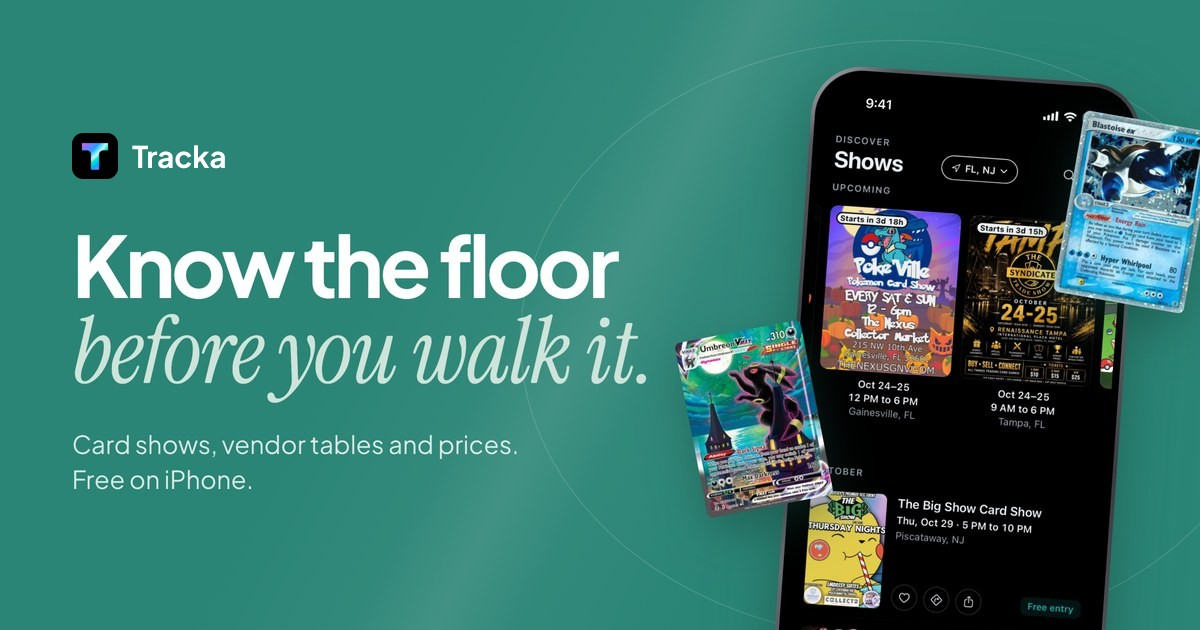
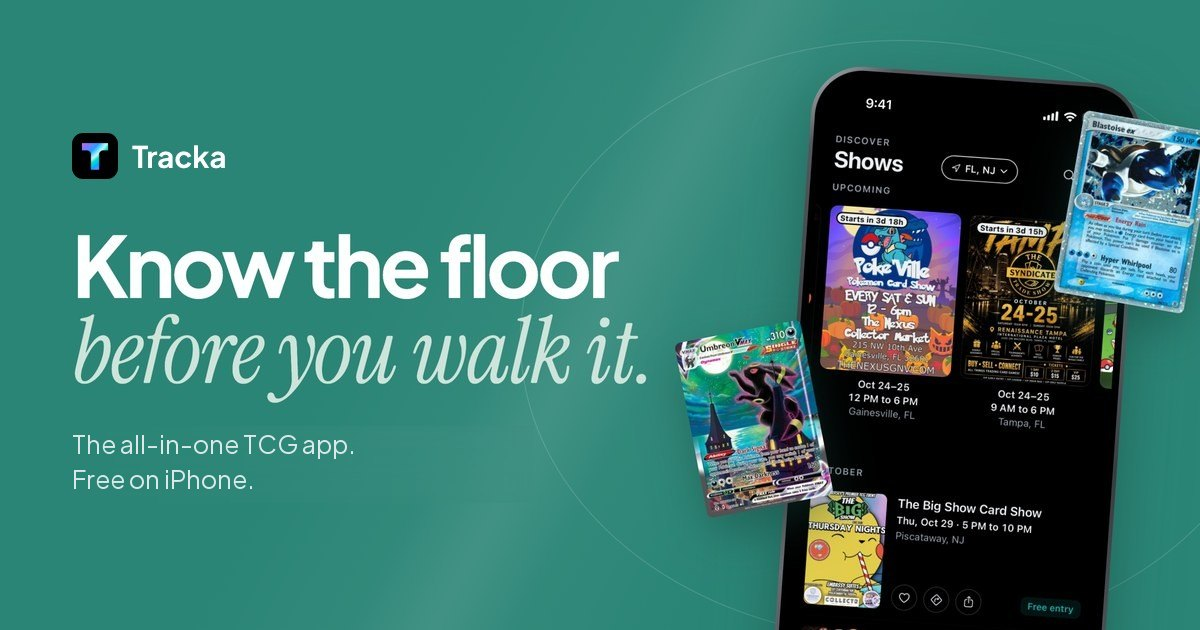
Slogan everywhere: The all-in-one TCG app (titles, share image, every /go page)

Changed region(s): [[0.0617, 0.6937, 0.4317, 0.7238], [0.0617, 0.754, 0.2158, 0.7841]]

diff --git a/index.html b/index.html
@@ -4,7 +4,7 @@
 <meta charset="utf-8">
 <meta name="viewport" content="width=device-width, initial-scale=1, viewport-fit=cover">
 <script src="/track.js?v=3"></script>
-<title>Tracka: Know the floor before you walk it</title>
+<title>Tracka: The all-in-one TCG app</title>
 <meta name="description" content="See what vendors are bringing to Pokémon card shows near you, with prices, before the doors open. Track your collection, scan cards and follow prices. Free on iPhone.">
 <meta name="theme-color" content="#2a8576">
 <meta name="color-scheme" content="light">
@@ -13,19 +13,19 @@
 <link rel="icon" type="image/svg+xml" href="/favicon.svg?v=6">
 <link rel="icon" type="image/png" href="/favicon.png?v=6">
 <link rel="apple-touch-icon" href="/apple-touch-icon.png?v=6">
-<meta property="og:title" content="Tracka: Know the floor before you walk it">
+<meta property="og:title" content="Tracka: The all-in-one TCG app">
 <meta property="og:description" content="See what vendors are bringing to card shows near you, with prices, before the doors open. Free on iPhone.">
 <meta property="og:url" content="https://gettracka.com/">
 <meta property="og:type" content="website">
 <meta property="og:site_name" content="Tracka">
-<meta property="og:image" content="https://gettracka.com/og.jpg?v=9">
+<meta property="og:image" content="https://gettracka.com/og.jpg?v=10">
 <meta property="og:image:width" content="1200">
 <meta property="og:image:height" content="630">
 <meta property="og:image:alt" content="The Tracka Shows tab, listing upcoming card shows with their flyers and vendor tables.">
 <meta name="twitter:card" content="summary_large_image">
-<meta name="twitter:title" content="Tracka: Know the floor before you walk it">
+<meta name="twitter:title" content="Tracka: The all-in-one TCG app">
 <meta name="twitter:description" content="See what vendors are bringing to card shows near you, with prices, before the doors open. Free on iPhone.">
-<meta name="twitter:image" content="https://gettracka.com/og.jpg?v=9">
+<meta name="twitter:image" content="https://gettracka.com/og.jpg?v=10">
 <link rel="preload" as="font" type="font/woff2" crossorigin href="/fonts/plus-jakarta-sans-latin.woff2">
 <link rel="preload" as="font" type="font/woff2" crossorigin href="/fonts/instrument-serif-italic-latin.woff2">
 <link rel="preload" as="image" href="/shots/home-720.webp?v=1" imagesrcset="/shots/home-360.webp?v=1 360w, /shots/home-540.webp?v=1 540w, /shots/home-720.webp?v=1 720w" imagesizes="(max-width:560px) 176px, 264px" fetchpriority="high">

diff --git a/go/livetest/index.html b/go/livetest/index.html
@@ -66,7 +66,7 @@ p span{color:var(--blue)}
 <main class="wrap">
 <img class="icon" src="/go/icon.png?v=3" width="96" height="96" alt="">
 <h1>Tracka</h1>
-<p>Scan a card and <span>see what it’s worth.</span></p>
+<p>The all-in-one <span>TCG app.</span></p>
 <div class="code" id="code" hidden><small>Creator code</small><b>LIVETEST</b><span>Enter it in the app so they get credit.</span></div>
 <a class="badge" href="https://apps.apple.com/app/apple-store/id6778956833?pt=129011221&ct=c-LIVETEST&mt=8" aria-label="Download on the App Store">
 <svg viewBox="0 0 24 24" fill="currentColor" aria-hidden="true"><path d="M16.37 12.64c-.02-2.1 1.72-3.11 1.8-3.16-.98-1.43-2.5-1.63-3.04-1.65-1.3-.13-2.53.76-3.19.76-.66 0-1.67-.74-2.75-.72-1.41.02-2.72.82-3.44 2.09-1.47 2.55-.38 6.32 1.05 8.39.7 1.01 1.53 2.15 2.62 2.11 1.05-.04 1.45-.68 2.72-.68s1.63.68 2.74.66c1.13-.02 1.85-1.03 2.54-2.05.8-1.17 1.13-2.3 1.15-2.36-.03-.01-2.2-.85-2.2-3.39zM14.28 6.46c.58-.7.97-1.68.86-2.66-.83.03-1.85.56-2.45 1.26-.54.62-1.01 1.62-.88 2.57.93.07 1.88-.47 2.47-1.17z"/></svg>

diff --git a/go/sampark/index.html b/go/sampark/index.html
@@ -66,7 +66,7 @@ p span{color:var(--blue)}
 <main class="wrap">
 <img class="icon" src="/go/icon.png?v=3" width="96" height="96" alt="">
 <h1>Tracka</h1>
-<p>Scan a card and <span>see what it’s worth.</span></p>
+<p>The all-in-one <span>TCG app.</span></p>
 <div class="code" id="code" hidden><small>Creator code</small><b>SAMPARK</b><span>Enter it in the app so they get credit.</span></div>
 <a class="badge" href="https://apps.apple.com/app/apple-store/id6778956833?pt=129011221&ct=c-SAMPARK&mt=8" aria-label="Download on the App Store">
 <svg viewBox="0 0 24 24" fill="currentColor" aria-hidden="true"><path d="M16.37 12.64c-.02-2.1 1.72-3.11 1.8-3.16-.98-1.43-2.5-1.63-3.04-1.65-1.3-.13-2.53.76-3.19.76-.66 0-1.67-.74-2.75-.72-1.41.02-2.72.82-3.44 2.09-1.47 2.55-.38 6.32 1.05 8.39.7 1.01 1.53 2.15 2.62 2.11 1.05-.04 1.45-.68 2.72-.68s1.63.68 2.74.66c1.13-.02 1.85-1.03 2.54-2.05.8-1.17 1.13-2.3 1.15-2.36-.03-.01-2.2-.85-2.2-3.39zM14.28 6.46c.58-.7.97-1.68.86-2.66-.83.03-1.85.56-2.45 1.26-.54.62-1.01 1.62-.88 2.57.93.07 1.88-.47 2.47-1.17z"/></svg>

diff --git a/go/logan/index.html b/go/logan/index.html
@@ -66,7 +66,7 @@ p span{color:var(--blue)}
 <main class="wrap">
 <img class="icon" src="/go/icon.png?v=3" width="96" height="96" alt="">
 <h1>Tracka</h1>
-<p>Scan a card and <span>see what it’s worth.</span></p>
+<p>The all-in-one <span>TCG app.</span></p>
 <div class="code" id="code" hidden><small>Creator code</small><b>LOGAN</b><span>Enter it in the app so they get credit.</span></div>
 <a class="badge" href="https://apps.apple.com/app/apple-store/id6778956833?pt=129011221&ct=c-LOGAN&mt=8" aria-label="Download on the App Store">
 <svg viewBox="0 0 24 24" fill="currentColor" aria-hidden="true"><path d="M16.37 12.64c-.02-2.1 1.72-3.11 1.8-3.16-.98-1.43-2.5-1.63-3.04-1.65-1.3-.13-2.53.76-3.19.76-.66 0-1.67-.74-2.75-.72-1.41.02-2.72.82-3.44 2.09-1.47 2.55-.38 6.32 1.05 8.39.7 1.01 1.53 2.15 2.62 2.11 1.05-.04 1.45-.68 2.72-.68s1.63.68 2.74.66c1.13-.02 1.85-1.03 2.54-2.05.8-1.17 1.13-2.3 1.15-2.36-.03-.01-2.2-.85-2.2-3.39zM14.28 6.46c.58-.7.97-1.68.86-2.66-.83.03-1.85.56-2.45 1.26-.54.62-1.01 1.62-.88 2.57.93.07 1.88-.47 2.47-1.17z"/></svg>

diff --git a/go/maya/index.html b/go/maya/index.html
@@ -60,7 +60,7 @@ p span{color:var(--blue)}
 <main class="wrap">
 <img class="icon" src="/go/icon.png?v=3" width="96" height="96" alt="">
 <h1>Tracka</h1>
-<p>See what vendors are bringing to card shows, with prices, <span>before you walk the floor.</span></p>
+<p>The all-in-one <span>TCG app.</span></p>
 <a class="badge" href="https://apps.apple.com/app/apple-store/id6778956833?pt=129011221&ct=ugc-maya&mt=8" aria-label="Download on the App Store">
 <svg viewBox="0 0 24 24" fill="currentColor" aria-hidden="true"><path d="M16.37 12.64c-.02-2.1 1.72-3.11 1.8-3.16-.98-1.43-2.5-1.63-3.04-1.65-1.3-.13-2.53.76-3.19.76-.66 0-1.67-.74-2.75-.72-1.41.02-2.72.82-3.44 2.09-1.47 2.55-.38 6.32 1.05 8.39.7 1.01 1.53 2.15 2.62 2.11 1.05-.04 1.45-.68 2.72-.68s1.63.68 2.74.66c1.13-.02 1.85-1.03 2.54-2.05.8-1.17 1.13-2.3 1.15-2.36-.03-.01-2.2-.85-2.2-3.39zM14.28 6.46c.58-.7.97-1.68.86-2.66-.83.03-1.85.56-2.45 1.26-.54.62-1.01 1.62-.88 2.57.93.07 1.88-.47 2.47-1.17z"/></svg>
 <span><small>Download on the</small><b>App Store</b></span>

diff --git a/go/reddit/index.html b/go/reddit/index.html
@@ -60,7 +60,7 @@ p span{color:var(--blue)}
 <main class="wrap">
 <img class="icon" src="/go/icon.png?v=3" width="96" height="96" alt="">
 <h1>Tracka</h1>
-<p>See what vendors are bringing to card shows, with prices, <span>before you walk the floor.</span></p>
+<p>The all-in-one <span>TCG app.</span></p>
 <a class="badge" href="https://apps.apple.com/app/apple-store/id6778956833?pt=129011221&ct=reddit&mt=8" aria-label="Download on the App Store">
 <svg viewBox="0 0 24 24" fill="currentColor" aria-hidden="true"><path d="M16.37 12.64c-.02-2.1 1.72-3.11 1.8-3.16-.98-1.43-2.5-1.63-3.04-1.65-1.3-.13-2.53.76-3.19.76-.66 0-1.67-.74-2.75-.72-1.41.02-2.72.82-3.44 2.09-1.47 2.55-.38 6.32 1.05 8.39.7 1.01 1.53 2.15 2.62 2.11 1.05-.04 1.45-.68 2.72-.68s1.63.68 2.74.66c1.13-.02 1.85-1.03 2.54-2.05.8-1.17 1.13-2.3 1.15-2.36-.03-.01-2.2-.85-2.2-3.39zM14.28 6.46c.58-.7.97-1.68.86-2.66-.83.03-1.85.56-2.45 1.26-.54.62-1.01 1.62-.88 2.57.93.07 1.88-.47 2.47-1.17z"/></svg>
 <span><small>Download on the</small><b>App Store</b></span>

diff --git a/go/tiktok/index.html b/go/tiktok/index.html
@@ -60,7 +60,7 @@ p span{color:var(--blue)}
 <main class="wrap">
 <img class="icon" src="/go/icon.png?v=3" width="96" height="96" alt="">
 <h1>Tracka</h1>
-<p>See what vendors are bringing to card shows, with prices, <span>before you walk the floor.</span></p>
+<p>The all-in-one <span>TCG app.</span></p>
 <a class="badge" href="https://apps.apple.com/app/apple-store/id6778956833?pt=129011221&ct=tiktok&mt=8" aria-label="Download on the App Store">
 <svg viewBox="0 0 24 24" fill="currentColor" aria-hidden="true"><path d="M16.37 12.64c-.02-2.1 1.72-3.11 1.8-3.16-.98-1.43-2.5-1.63-3.04-1.65-1.3-.13-2.53.76-3.19.76-.66 0-1.67-.74-2.75-.72-1.41.02-2.72.82-3.44 2.09-1.47 2.55-.38 6.32 1.05 8.39.7 1.01 1.53 2.15 2.62 2.11 1.05-.04 1.45-.68 2.72-.68s1.63.68 2.74.66c1.13-.02 1.85-1.03 2.54-2.05.8-1.17 1.13-2.3 1.15-2.36-.03-.01-2.2-.85-2.2-3.39zM14.28 6.46c.58-.7.97-1.68.86-2.66-.83.03-1.85.56-2.45 1.26-.54.62-1.01 1.62-.88 2.57.93.07 1.88-.47 2.47-1.17z"/></svg>
 <span><small>Download on the</small><b>App Store</b></span>
